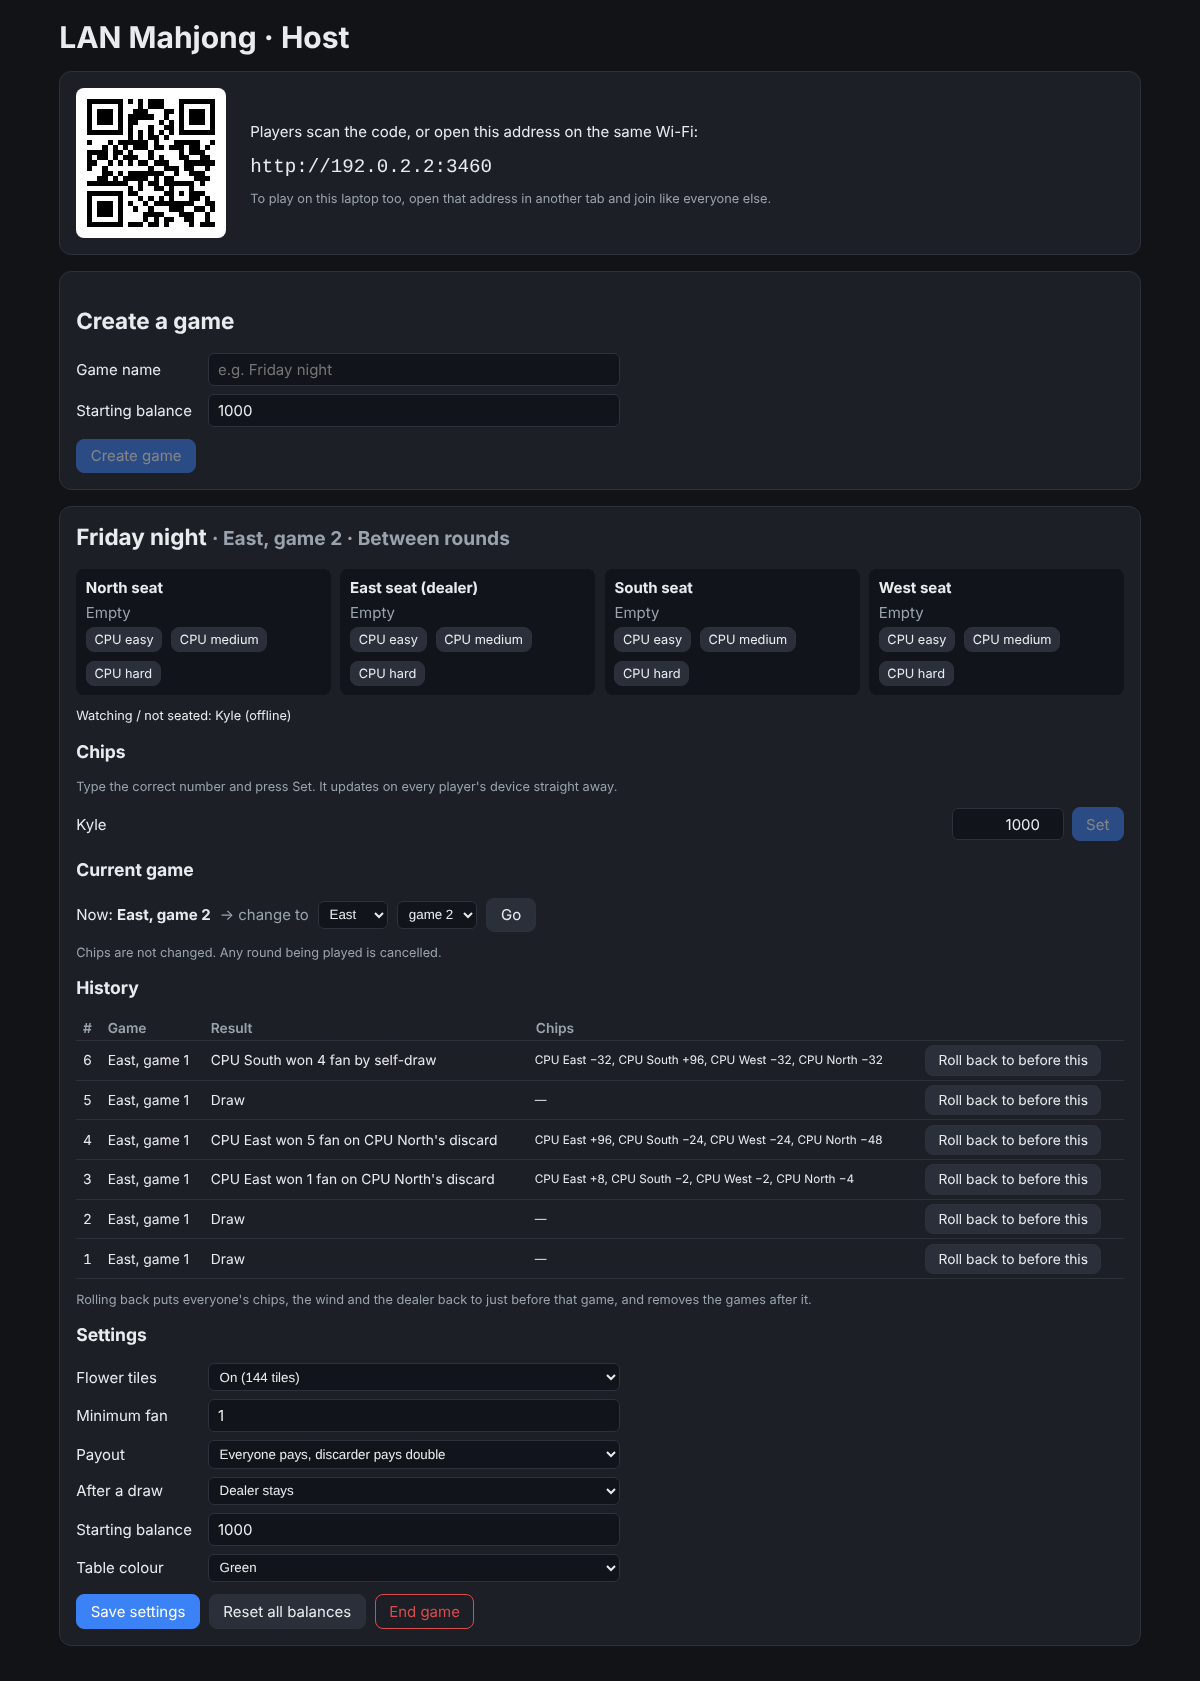
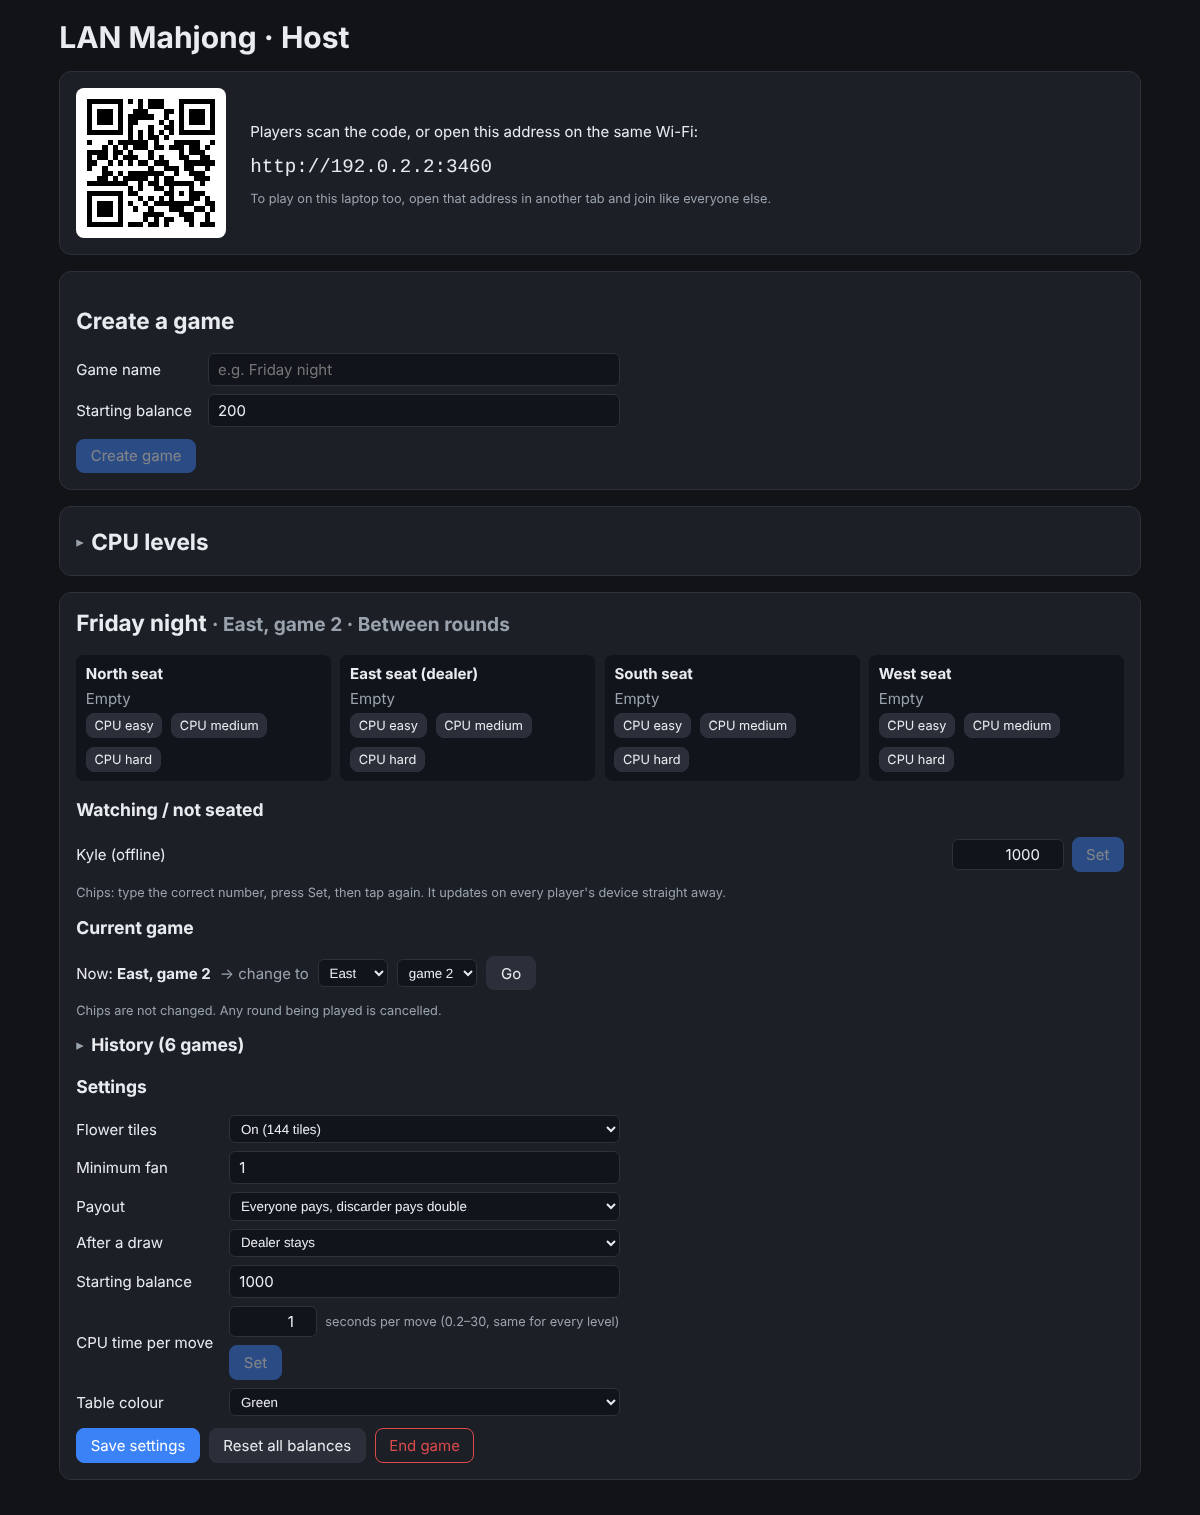
Host page: collapsible CPU levels and history, per-seat history columns, chips in seat cards with confirm, Remove player, default 200
Claude-Session: https://claude.ai/code/session_015YHyyK2QNgGagiGzuaLbCn

diff --git a/client/src/HostApp.tsx b/client/src/HostApp.tsx
@@ -56,7 +56,7 @@ function useHostConnection() {
 export function HostApp(): ReactElement {
   const { games, urls, open, error, send, cpuLevels } = useHostConnection();
   const [gameName, setGameName] = useState('');
-  const [balance, setBalance] = useState(1000);
+  const [balance, setBalance] = useState(200);
   return (
     <div className="host">
       <h1>LAN Mahjong · Host</h1>
@@ -93,8 +93,8 @@ export function HostApp(): ReactElement {
       </div>
 
       {cpuLevels && (
-        <div className="card">
-          <h2 style={{ marginTop: 0 }}>CPU levels</h2>
+        <details className="card collapsible">
+          <summary><h2>CPU levels</h2></summary>
           <p className="muted small">CPUs only see what a real player in their seat could see, and never declare a win below the minimum fan.</p>
           <div className="cpu-levels">
             {(['easy', 'medium', 'hard'] as CpuDifficulty[]).map((lvl) => (
@@ -104,7 +104,7 @@ export function HostApp(): ReactElement {
               </div>
             ))}
           </div>
-        </div>
+        </details>
       )}
 
       {games.map((g) => (
@@ -136,10 +136,19 @@ function CpuSecondsField({ seconds, onSet }: { seconds: number; onSet: (s: numbe
   );
 }
 
-/** One person's chip count on the host page: type a number and press Set. */
-function ChipRow({ name, balance, onSet }: { name: string; balance: number; onSet: (b: number) => void }): ReactElement {
+/**
+ * One person's chips on the host page: type a number and press Set, then tap
+ * again to confirm (like ending the game).
+ */
+function ChipRow({ name, balance, onSet, label }: { name: string; balance: number; onSet: (b: number) => void; label?: string }): ReactElement {
   const [value, setValue] = useState(String(balance));
+  const [armed, setArmed] = useState(false);
   useEffect(() => setValue(String(balance)), [balance]);
+  useEffect(() => {
+    if (!armed) return;
+    const t = setTimeout(() => setArmed(false), 4000);
+    return () => clearTimeout(t);
+  }, [armed]);
   const n = Number(value);
   const valid = value.trim() !== '' && Number.isInteger(n);
   const changed = valid && n !== balance;
@@ -148,12 +157,18 @@ function ChipRow({ name, balance, onSet }: { name: string; balance: number; onSe
       className="chip-row"
       onSubmit={(e) => {
         e.preventDefault();
-        if (changed) onSet(n);
+        if (!changed) return;
+        if (armed) {
+          setArmed(false);
+          onSet(n);
+        } else setArmed(true);
       }}
     >
-      <span className="chip-name">{name}</span>
-      <input type="number" step={1} value={value} onChange={(e) => setValue(e.target.value)} aria-label={`Chips for ${name}`} />
-      <button className="btn primary" type="submit" disabled={!changed}>Set</button>
+      <span className="chip-name">{label ?? name}</span>
+      <input type="number" step={1} value={value} onChange={(e) => { setValue(e.target.value); setArmed(false); }} aria-label={`Chips for ${name}`} />
+      <button className={`btn ${armed ? 'danger' : 'primary'}`} type="submit" disabled={!changed}>
+        {armed ? 'Tap again to set' : 'Set'}
+      </button>
     </form>
   );
 }
@@ -210,13 +225,18 @@ function PositionAndHistory({ game, cmd }: { game: HostGameView; cmd: (c: Extrac
       </div>
       <p className="muted small">Chips are not changed. Any round being played is cancelled.</p>
 
-      <h3>History</h3>
+      <details className="collapsible history-section">
+      <summary><h3>History ({game.history.length} {game.history.length === 1 ? 'game' : 'games'})</h3></summary>
       {game.history.length === 0 ? (
         <p className="muted small">No games finished yet.</p>
       ) : (
         <table className="history">
           <thead>
-            <tr><th>#</th><th>Game</th><th>Result</th><th>Chips</th><th /></tr>
+            <tr>
+              <th>#</th><th>Game</th><th>Result</th>
+              {game.seats.map((s) => <th key={s.seat} className="num">{s.name ?? `Seat ${s.seat + 1}`}</th>)}
+              <th />
+            </tr>
           </thead>
           <tbody>
             {[...game.history].reverse().map((h) => (
@@ -228,9 +248,22 @@ function PositionAndHistory({ game, cmd }: { game: HostGameView; cmd: (c: Extrac
                     ? 'Draw'
                     : `${h.result.winner} won ${h.result.fan} fan ${h.result.discarder ? `on ${h.result.discarder}'s discard` : 'by self-draw'}${h.result.isChicken ? ' (chicken)' : ''}`}
                 </td>
-                <td className="small">
-                  {h.changes.filter((c) => c.change !== 0).map((c) => `${c.name} ${c.change > 0 ? '+' : '−'}${Math.abs(c.change)}`).join(', ') || '—'}
-                </td>
+                {h.seatChanges.map((change, seat) => {
+                  // Winner green; discarder red; on a self-draw every loser is red.
+                  const cls =
+                    h.result.type !== 'win' ? ''
+                      : seat === h.winnerSeat ? 'cell-win'
+                      : h.discarderSeat !== null ? (seat === h.discarderSeat ? 'cell-lose' : '')
+                      : change < 0 ? 'cell-lose' : '';
+                  const who = h.seatNames[seat];
+                  const current = game.seats[seat]?.name;
+                  return (
+                    <td key={seat} className={`num ${cls}`}>
+                      {change > 0 ? `+${change}` : change < 0 ? `−${Math.abs(change)}` : '0'}
+                      {who && who !== current && <div className="muted small">{who}</div>}
+                    </td>
+                  );
+                })}
                 <td>
                   <TwoTapButton
                     label="Roll back to before this"
@@ -244,6 +277,7 @@ function PositionAndHistory({ game, cmd }: { game: HostGameView; cmd: (c: Extrac
         </table>
       )}
       <p className="muted small">Rolling back puts everyone's chips, the wind and the dealer back to just before that game, and removes the games after it.</p>
+      </details>
     </>
   );
 }
@@ -274,37 +308,43 @@ function GameCard({ game, send }: { game: HostGameView; send: (m: HostMessage) =
               {s.cpu ? ` · CPU (${s.cpu})` : ''}
               {s.name && !s.cpu && !s.connected ? <span className="offline"> · offline</span> : ''}
             </span>
-            {s.balance !== null && <span className="chips">{s.balance} chips</span>}
+            {s.name && s.balance !== null && (
+              <ChipRow label="Chips" name={s.name} balance={s.balance} onSet={(balance) => cmd({ type: 'hostSetBalance', name: s.name!, balance })} />
+            )}
             <div className="row" style={{ justifyContent: 'flex-start', marginTop: 0 }}>
               {(['easy', 'medium', 'hard'] as CpuDifficulty[]).map((d) => (
                 <button key={d} className="btn" onClick={() => cmd({ type: 'hostSetSeat', seat: s.seat, cpu: d })}>
                   {s.name && !s.cpu ? `Replace: ${d}` : `CPU ${d}`}
                 </button>
               ))}
-              {s.cpu && (
-                // Kick the CPU so a player can sit here (mid-round, the game waits for them).
-                <button className="btn danger" onClick={() => cmd({ type: 'hostSetSeat', seat: s.seat, cpu: null })}>Remove CPU</button>
+              {s.name && (
+                // Empty the seat so someone else can sit there (mid-round, the game waits for them).
+                // A removed player becomes a spectator and keeps their chips.
+                <button className="btn danger" onClick={() => cmd({ type: 'hostSetSeat', seat: s.seat, cpu: null })}>
+                  {s.cpu ? 'Remove CPU' : 'Remove player'}
+                </button>
               )}
             </div>
           </div>
         ))}
       </div>
       {game.spectators.length > 0 && (
-        <p className="small">
-          Watching / not seated: {game.spectators.map((p) => `${p.name}${p.connected ? '' : ' (offline)'}`).join(', ')}
-        </p>
+        <>
+          <h3>Watching / not seated</h3>
+          <div className="chips-editor">
+            {game.spectators.map((p) => (
+              <ChipRow
+                key={p.name}
+                name={p.name}
+                label={`${p.name}${p.connected ? '' : ' (offline)'}`}
+                balance={p.balance}
+                onSet={(balance) => cmd({ type: 'hostSetBalance', name: p.name, balance })}
+              />
+            ))}
+          </div>
+        </>
       )}
-
-      <h3>Chips</h3>
-      <p className="muted small">Type the correct number and press Set. It updates on every player's device straight away.</p>
-      <div className="chips-editor">
-        {[
-          ...game.seats.filter((s) => s.name !== null).map((s) => ({ name: s.name!, balance: s.balance ?? 0, cpu: !!s.cpu })),
-          ...game.spectators.map((p) => ({ name: p.name, balance: p.balance, cpu: false })),
-        ].map((p) => (
-          <ChipRow key={p.name} name={p.name} balance={p.balance} onSet={(balance) => cmd({ type: 'hostSetBalance', name: p.name, balance })} />
-        ))}
-      </div>
+      <p className="muted small">Chips: type the correct number, press Set, then tap again. It updates on every player's device straight away.</p>
 
       <PositionAndHistory game={game} cmd={cmd} />
 

diff --git a/server/src/game/room.ts b/server/src/game/room.ts
@@ -86,6 +86,10 @@ export interface HandRecord {
   result: { type: 'draw' } | { type: 'win'; winner: string; discarder: string | null; fan: number; isChicken: boolean };
   /** Chip change per person key. */
   changes: Record<string, number>;
+  /** Chip change per seat 0-3, and who won / discarded (seat numbers). Missing in old saves. */
+  seatChanges?: number[];
+  winnerSeat?: number | null;
+  discarderSeat?: number | null;
   /** Everyone's chips just before this hand was paid out (used to roll back). */
   balancesBefore: Record<string, number>;
 }
@@ -158,7 +162,7 @@ export type Command =
 
 /** Host controls. These only come from the host page on the server laptop. */
 export type HostCommand =
-  /** Put a CPU in a seat (replacing whoever is there), or empty a CPU seat (cpu: null). */
+  /** Put a CPU in a seat (replacing whoever is there), or empty the seat (cpu: null): removes a CPU or forces a player out. */
   | { type: 'hostSetSeat'; seat: number; cpu: CpuDifficulty | null }
   | { type: 'hostResetBalances' }
   /** Type in a person's chip count (the only way to change chips by hand). */
@@ -418,6 +422,9 @@ function maybeCloseRound(room: Room): void {
           ? { type: 'draw' }
           : { type: 'win', winner: nameAt(result.winner) ?? '', discarder: nameAt(result.discarder), fan: result.fan, isChicken: result.isChicken },
       changes: changesByKey,
+      seatChanges: changes.slice(),
+      winnerSeat: result.type === 'win' ? result.winner : null,
+      discarderSeat: result.type === 'win' ? result.discarder : null,
       balancesBefore: Object.fromEntries(Object.values(room.people).map((p) => [p.key, p.balance])),
     },
   ];
@@ -634,10 +641,11 @@ export function handleHostCommand(prev: Room, cmd: HostCommand, now: number): Ro
       if (!Number.isInteger(cmd.seat) || cmd.seat < 0 || cmd.seat >= SEATS) fail('There is no such seat.');
       const current = room.seats[cmd.seat] ?? null;
       if (cmd.cpu === null) {
-        // Remove a CPU so a player can sit there. Mid-round, the empty seat keeps
-        // its tiles and the game waits until someone sits down (or a CPU is added).
-        if (current && !room.people[current]!.cpu) fail('Only CPU seats can be emptied this way.');
+        // Empty the seat: remove a CPU, or force a player out (they become a
+        // spectator and keep their chips). Mid-round, the empty seat keeps its
+        // tiles and the game waits until someone sits down (or a CPU is added).
         room.seats[cmd.seat] = null;
+        if (room.pendingSwap?.seat === cmd.seat) room.pendingSwap = null;
         if (current) cleanupAfterSeatChange(room, current);
       } else {
         room.seats[cmd.seat] = makeCpu(room, cmd.seat, cmd.cpu);

diff --git a/server/src/game/view.ts b/server/src/game/view.ts
@@ -211,7 +211,18 @@ export interface HostGameView {
   /** Short summary of the round, with no hidden tiles. */
   round: null | { phase: Phase; turn: number; wallCount: number; result: RoundResult | null };
   /** Finished hands, oldest first, with chip changes by name. */
-  history: (Omit<HandRecord, 'changes' | 'balancesBefore'> & { changes: { name: string; change: number }[] })[];
+  history: (Omit<HandRecord, 'changes' | 'balancesBefore' | 'seatChanges' | 'winnerSeat' | 'discarderSeat'> & {
+    changes: { name: string; change: number }[];
+    seatChanges: number[];
+    winnerSeat: number | null;
+    discarderSeat: number | null;
+  })[];
+}
+
+function seatByName(h: HandRecord, name: string | null): number | null {
+  if (!name) return null;
+  const i = h.seatNames.indexOf(name);
+  return i < 0 ? null : i;
 }
 
 export function hostViewOf(room: Room): HostGameView {
@@ -253,6 +264,10 @@ export function hostViewOf(room: Room): HostGameView {
       seatNames: h.seatNames,
       result: h.result,
       changes: Object.entries(h.changes).map(([key, change]) => ({ name: room.people[key]?.name ?? key, change })),
+      seatChanges: h.seatChanges ?? h.seatNames.map((n) => (n ? h.changes[n.toLowerCase()] ?? 0 : 0)),
+      // Older saved hands did not record seats: find them from the names.
+      winnerSeat: h.winnerSeat !== undefined ? h.winnerSeat : h.result.type === 'win' ? seatByName(h, h.result.winner) : null,
+      discarderSeat: h.discarderSeat !== undefined ? h.discarderSeat : h.result.type === 'win' ? seatByName(h, h.result.discarder) : null,
     })),
   };
 }

diff --git a/server/test/room.test.ts b/server/test/room.test.ts
@@ -323,7 +323,11 @@ describe('host controls (laptop host page only)', () => {
     r = join(r, 'Dan');
     r = cmd(r, 'Dan', { type: 'takeSeat', seat: 2 });
     expect(r.seats[2]).toBe('dan');
-    expect(() => host(r, { type: 'hostSetSeat', seat: 2, cpu: null })).toThrow(/Only CPU seats/);
+    // The host can also force a player out: they become a spectator and keep their chips.
+    r = host(r, { type: 'hostSetSeat', seat: 2, cpu: null });
+    expect(r.seats[2]).toBeNull();
+    expect(viewFor(r, 'dan', tick()).you.seat).toBeNull();
+    expect(r.people.dan!.balance).toBe(1000);
   });
 
   it('the host overview never includes hidden tiles', () => {
@@ -368,6 +372,7 @@ describe('history, roll back and changing the current game (host page)', () => {
       result: { type: 'win', winner: 'Amy', discarder: 'Kyle', fan: 3 },
     });
     expect(hostViewOf(r).history[0]!.changes).toContainEqual({ name: 'Amy', change: 32 });
+    expect(hostViewOf(r).history[0]).toMatchObject({ seatChanges: [-16, 32, -8, -8], winnerSeat: 1, discarderSeat: 0 });
     r = finishWith(playAgain(r), 2, null, [-16, -16, 48, -16]);
     expect(hostViewOf(r).history.map((h) => h.label.en)).toEqual(['East, game 1', 'East, game 2']);
   });

diff --git a/client/src/styles.css b/client/src/styles.css
@@ -549,3 +549,14 @@ input { font: inherit; }
 .result-row { padding: 0.1em 0.3em; }
 .result h3 { margin-bottom: 0.3em; }
 .result .fan-items { margin-bottom: 0.3em; }
+
+/* Host page: collapsible sections (start closed) and history colours. */
+.collapsible > summary { cursor: pointer; list-style: none; display: flex; align-items: center; gap: 0.5em; }
+.collapsible > summary::-webkit-details-marker { display: none; }
+.collapsible > summary::before { content: '▸'; color: var(--muted); transition: transform 0.15s; }
+.collapsible[open] > summary::before { transform: rotate(90deg); }
+.collapsible > summary h2, .collapsible > summary h3 { margin: 0.2em 0; }
+.history td.cell-win { background: rgba(63, 181, 111, 0.25); color: #9ff0bf; font-weight: 700; }
+.history td.cell-lose { background: rgba(224, 99, 99, 0.22); color: #ffb3b3; font-weight: 700; }
+.host-seat .chip-row { grid-template-columns: auto 1fr auto; }
+.host-seat .chip-row input { width: 100%; min-width: 0; }

diff --git a/PROJECT_NOTES.md b/PROJECT_NOTES.md
@@ -125,6 +125,9 @@ disagrees with those, the newest dated entry here wins.
 | 2026-11-08 | **Only chicken wins can be undone** ("Undo chicken win", everyone must agree). Normal wins cannot be undone. Replaces "undo can go back over any move, including wins". | Kyle |
 | 2026-11-08 | **End of a round:** only "Ready" and "Leave seat". Ready also counts as Start: when every seated player is Ready the next round begins (dealer rolls). Each player's row shows whether they are ready. | Kyle |
 | 2026-11-08 | Side players' name tags are one small line like the top player's; the wall picture has no outline. | Kyle |
+| 2026-11-08 | **Host page layout:** "CPU levels" and "History" are collapsible sections that start closed. History shows one column per seat: winner's cell green, discarder's red; on a self-draw every losing player is red. | Kyle |
+| 2026-11-08 | **Host chips:** set inside each seat's card (and a list for spectators); Set needs a second tap to confirm, like End game. **Remove player** forces a person out of their seat (they become a spectator and keep their chips), like Remove CPU. | Kyle |
+| 2026-11-08 | **Default starting balance: 200** on the host page's Create game form. | Kyle |
 | 2026-11-08 | **First dealer** of a new game is seat 0 (East). | Claude (Kyle may change) |
 | 2026-11-08 | **Undo moves:** discard, 上, 碰, 槓, 胡. Draws are not separate moves. Undoing a discard puts the tile back in that player's hand and it is their turn again. | Kyle |
 | 2026-11-08 | **Several games at once:** one server can run many separate games, each with its own name. | Kyle |
